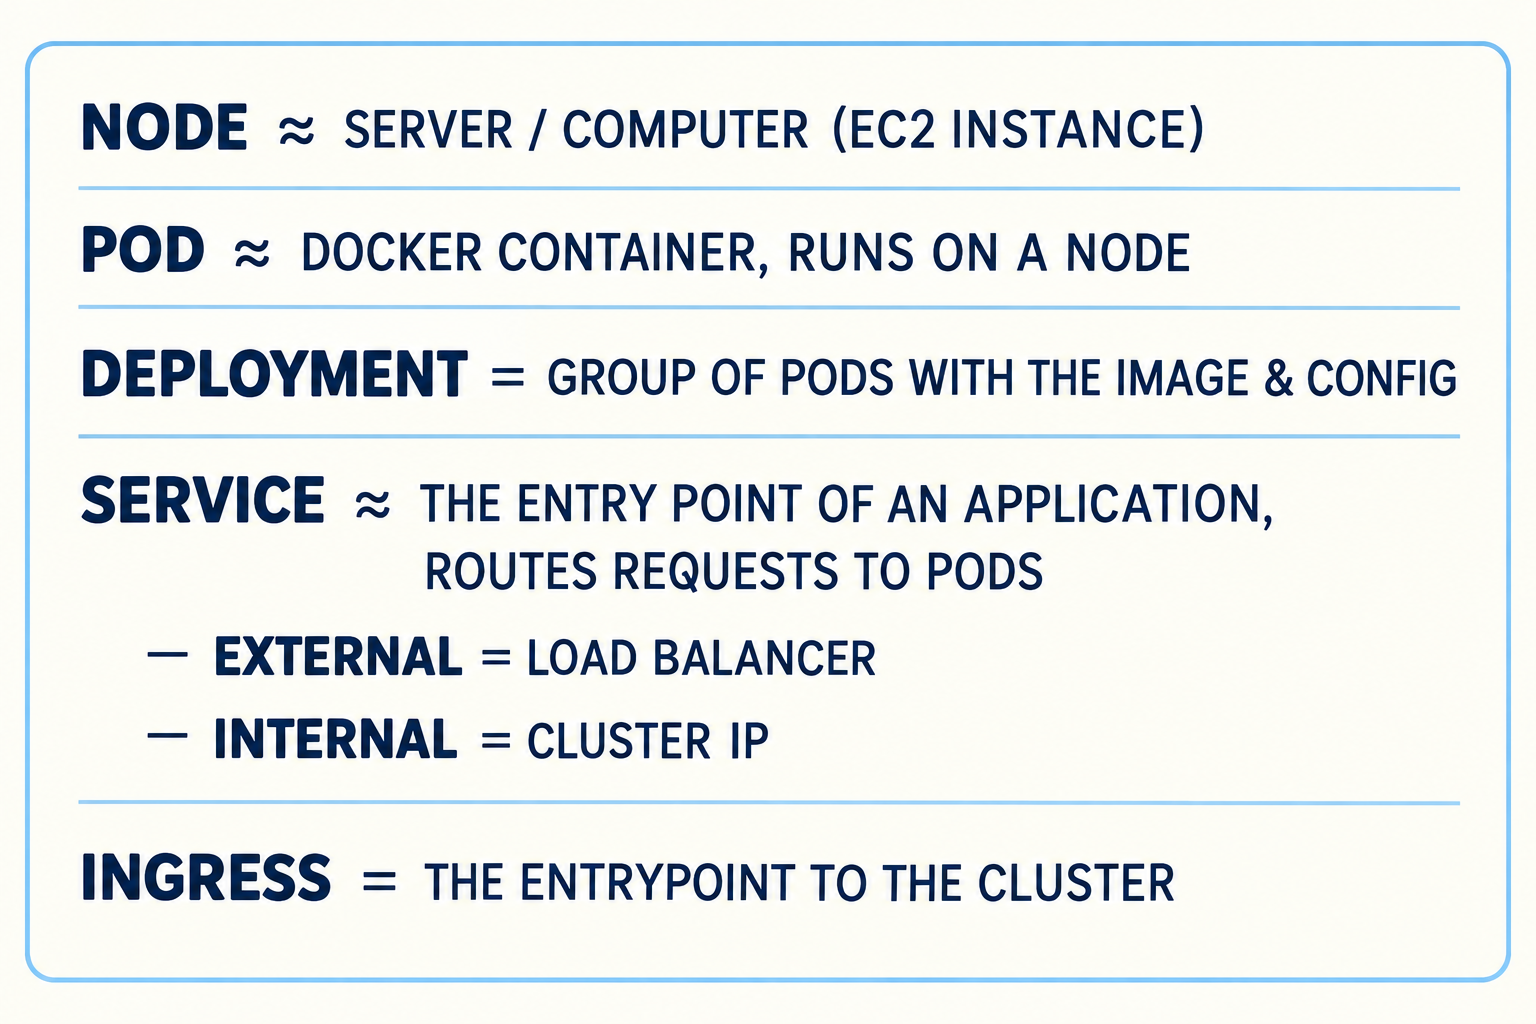
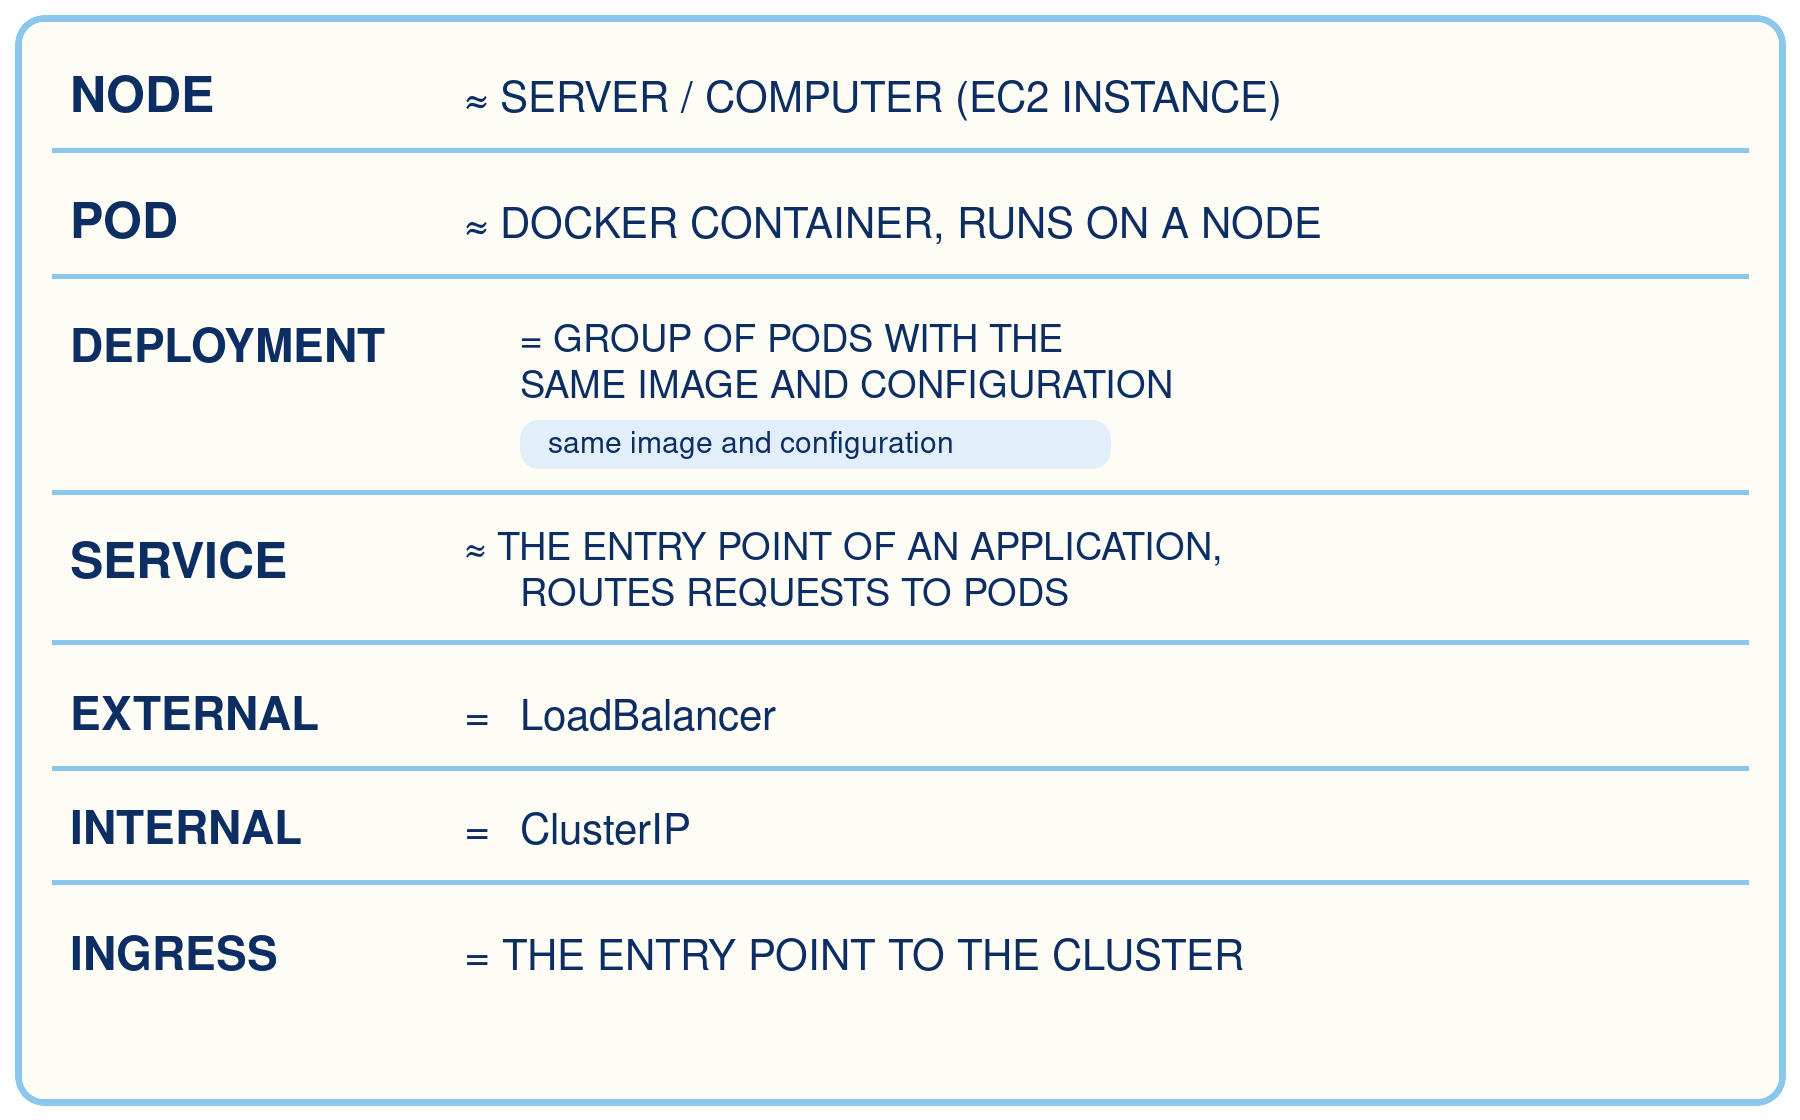
Correct Kubernetes definitions terminology

Changed region(s): [[0.0, 0.0, 1.0, 1.0]]

diff --git a/cohorts/2026/10-kubernetes/images/2026-09-08-kubernetes-imagegen-repair-provenance.md b/cohorts/2026/10-kubernetes/images/2026-09-08-kubernetes-imagegen-repair-provenance.md
@@ -20,22 +20,24 @@ inputs. The generated result was inspected at native size and after a 608px
 render. No output was accepted if it was only resized/sharpened, retained a
 camera/overlay artifact, or changed the lesson semantics.
 
-| Target | Original JPG SHA-256 | Bounded crop SHA-256 | Final generated SHA-256 | Final size | Method and result |
+| Target | Original JPG SHA-256 | Bounded crop SHA-256 | Final SHA-256 | Final size | Method and result |
 | --- | --- | --- | --- | --- | --- |
[4 lines of base64/hex data omitted]
 
 ### Checkpoint status
 
-The ingress and scaling rows above are the current checkpointed outputs. The
-definitions target is intentionally still pending: its latest imagegen
-candidate is visually crisp but renders `LOADBALANCER` and `CLUSTERIP` in all
-caps, so it has not been accepted until a deterministic correction preserves
-the exact required spellings `LoadBalancer` and `ClusterIP`.
+All three requested assets are now checkpointed. The ingress and scaling
+outputs are imagegen redraws from their original JPGs and bounded crops. The
+definitions image uses the inspected imagegen candidate as the semantic/style
+reference, followed by a deterministic SVG render because exact Kubernetes
+term casing could not be trusted in generated text.
 
-The final PNGs carry C2PA metadata identifying the built-in image-generation
-service. The scaling crop was created only to bound the board content before
+The ingress and scaling final PNGs carry C2PA metadata identifying the
+built-in image-generation service. The definitions final PNG is the
+deterministic render described above; its imagegen candidate carries the C2PA
+metadata. The scaling crop was created only to bound the board content before
 generation; it is not used as a lesson reference.
 
 ## Unresolved-reference inspection
